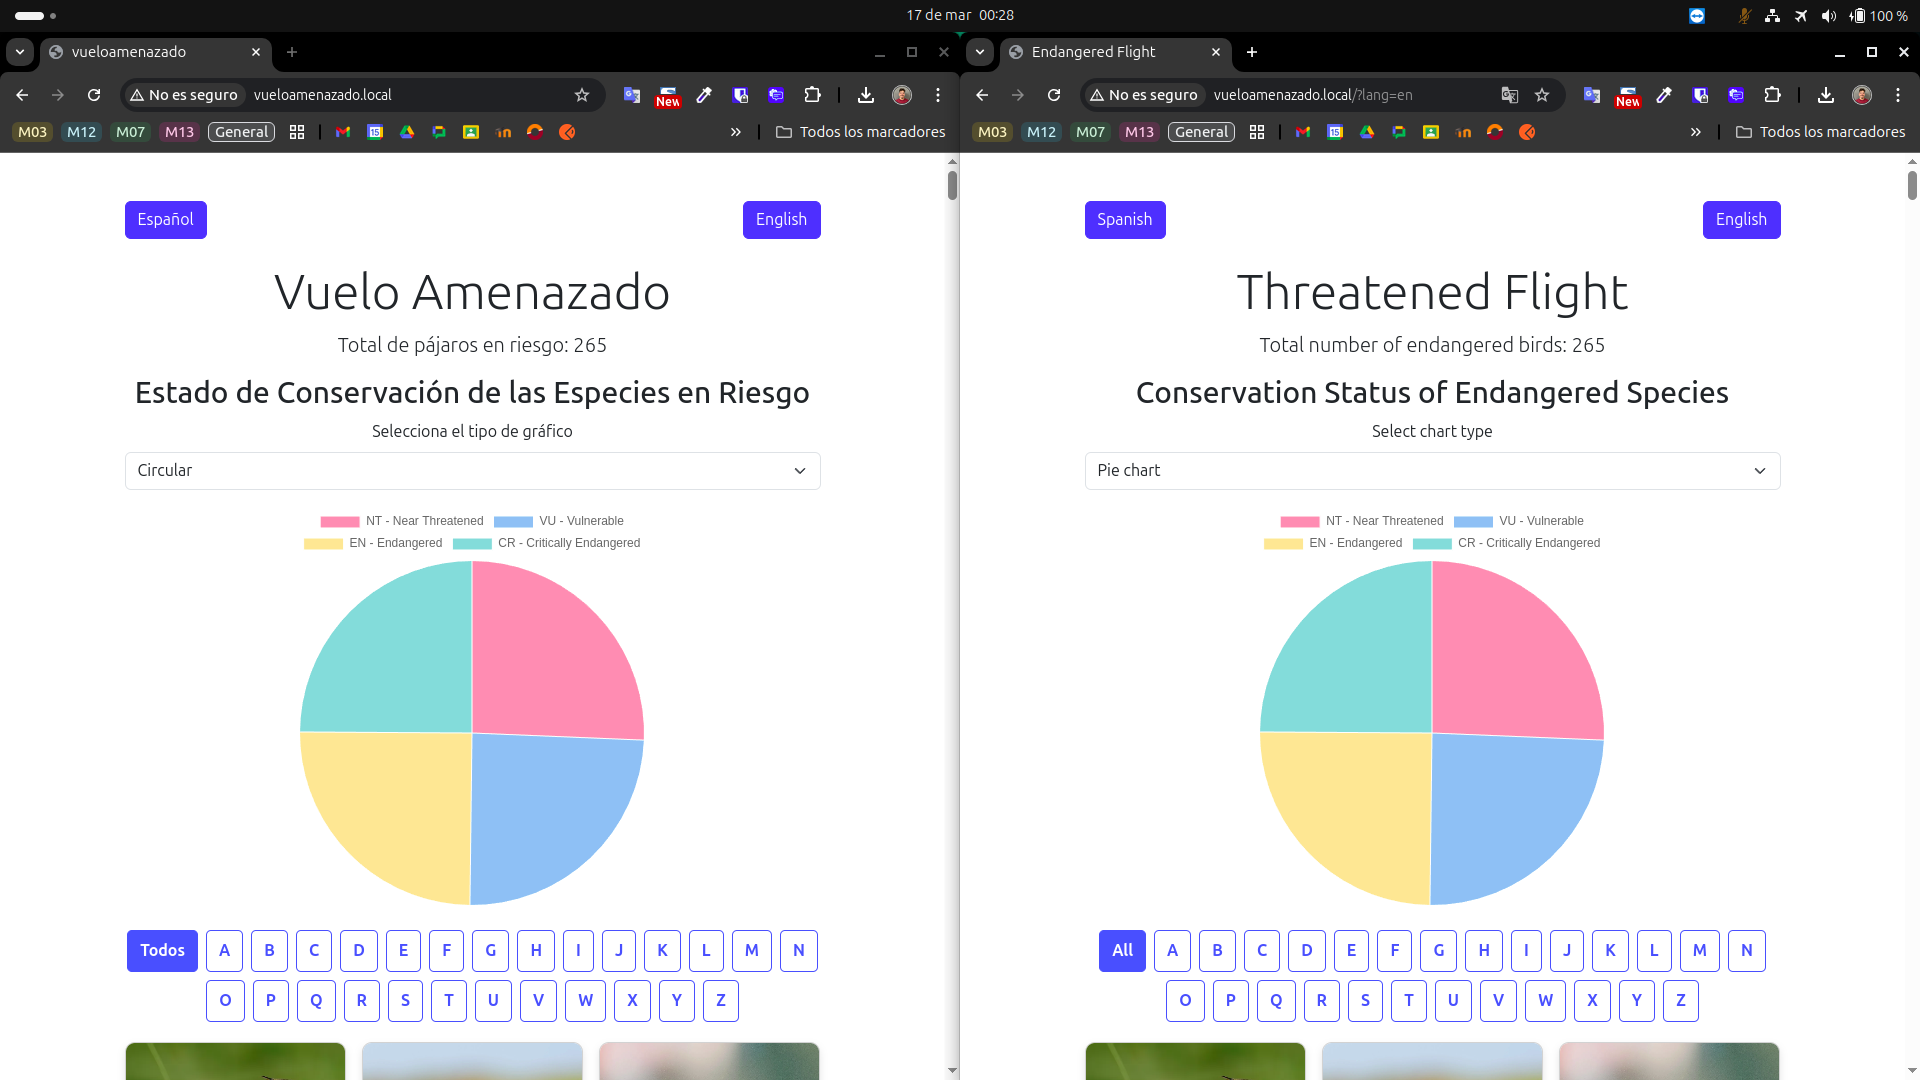
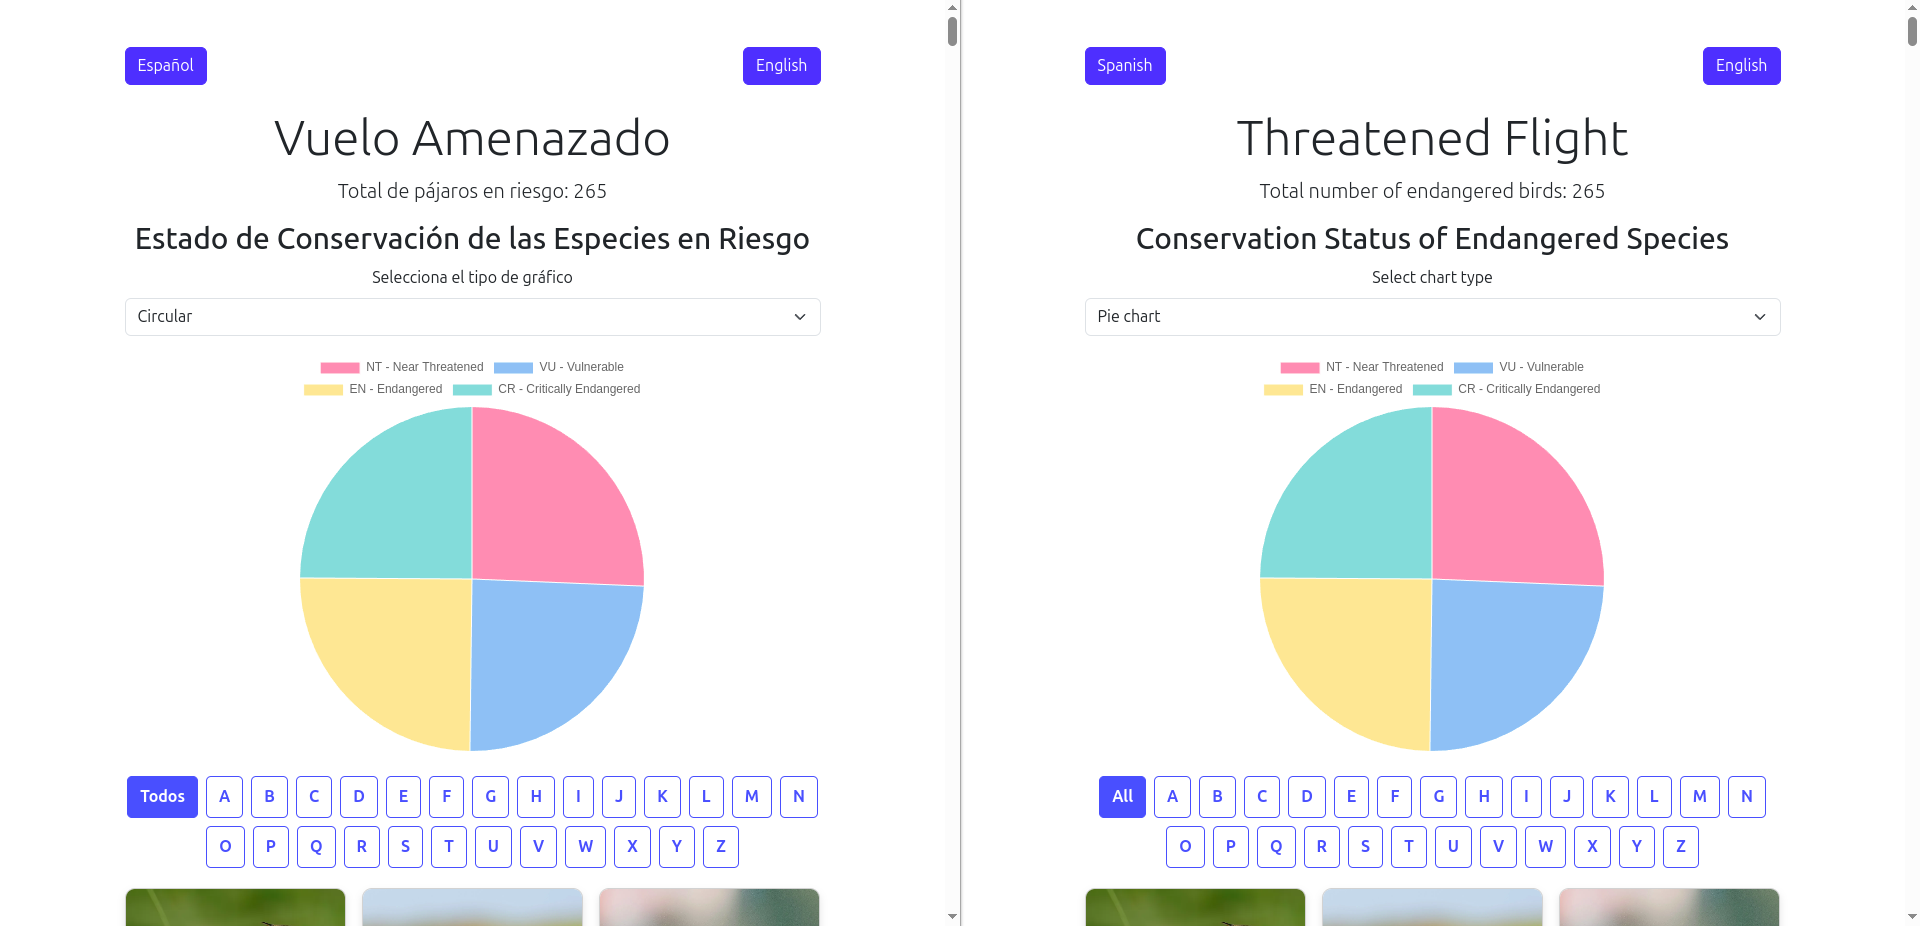
feat: Mejora README

diff --git a/README.md b/README.md
@@ -1,4 +1,6 @@
-# README - Práctica M08 - Creación de una página web dinámica en PHP
+# README - Práctica M08 - Creación de una página web dinámica en PHP - vueloamenazado.local
+
+![Imagen de la página principal de la web.](imgReadme/vueloamenazado.png)
 
 Esta práctica consiste en una **página web dinámica en PHP** la cual extrae los datos de [www.rspb.org.uk](https://www.rspb.org.uk) utilizando scraping con Selenium. [Link al proyecto: wselenium](https://github.com/Fernandodg97/wselenium). 
 
@@ -122,7 +124,7 @@ Se han realizado pruebas manuales para verificar el correcto funcionamiento de l
 
 ### Traducciones
 
-![Imagen de dos navegadores, izquierda la web en español y derecha la web en inglés](imgReadme/T1.png)
+![Imagen de dos navegadores: a la izquierda, la web en español; a la derecha, la web en inglés.](imgReadme/T1.png)
 
 ### Añadir, editar y eliminar (Postman)
 
